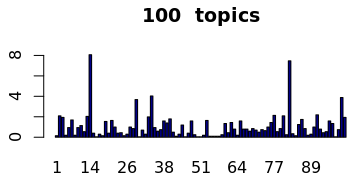
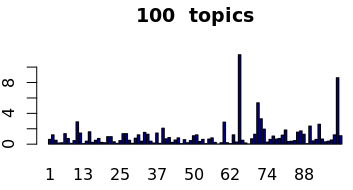
rerun topic modelling on the updated number of documents

diff --git a/notebooks/LDA_topics.md b/notebooks/LDA_topics.md
@@ -53,10 +53,10 @@ Sum  |  56.1% |   |   |   |   |   |   |   |   |   |
 
 Topic| Percent of docs| Keyword1 |Keyword2 | Keyword3 | Keyword4 | Keyword5 | Keyword6 | Keyword7 | Keyword8 | Keyword9 | Keyword10
 --- | --- | --- | --- | --- | --- | --- | --- | --- | --- | --- | ---
-14  | 8%  | "internet" | "service"  | "speed"  |  "access" |  "bell"  |  "home"   |  "rural"  |  "month"  |  "line"   |  "cellular"
- 82  | 7.4%  | "crtc"    |     "telecom"   |   "regulatory"  |  "commission"  | "notice"    |   "consultation"  | ”canadian"   |  "review"   |    "basic"     |   "services"
-34  | 4%  |  "internet"  |  "data"   |   "service"  |  "price" |    "prices"  |  "month"   |  "speeds"  |   "caps"    |  "canada"  |  "companies"
-99  | 3.8%  |  "bell"   |     "canada"  |    "local"   |    "northwestel" | “bands"   |    "rate"    |   "residential"  | "subsidy"  |   "partnership"  | "télébec"
-29  |  3.6% |  "customers" |  "service"   |  "plan"    |    "call"    |    "wireless"  |   "mobile"   |   "voice"   |    "services"  |  "internet"  |  "information"  
-91  | 2.2%  |   "internet" | "mbps"  |    "unlimited" |  "dsl"  |     "gb"    |    "data"  |    "monthly" |  "speed"    | "business"  |  "cable"
-Sum  | 29%  |   |   |   |   |   |   |   |   |   |  
+65  | 11.6%  | "internet" | "service"  | "access"  |  "rural" |  "cell"  |  "phone"   |  "speed"  |  "live"  |  "services"   |  "provide"
+99  | 8.6%  |"internet" | "service"  |  "speed"  |  "data"  |   "pm"   |    "month"  |   "rural"  |   "slow"   |   "bell"       |   "pay"
+71  | 5.4%  |  "crtc"    |     "commission" |  "telecom"   |   "regulatory"  | "consultation" "notice"   |    "canadian"  |   "information"   |  "review"    |   "basic"  
+72  | 3.3%  |  "information" | "response"  |   "commission"  |  "crtc"   |      "disclosure"  |  "confidential" | "public"  |     "request"  |   "provided"  |   "rogers"
+11  |  2.9% |  "digital"  |    "canadians"  |   "canadian"  |    "canada"  |     "access"   |    "services"  |   "basic"   |     "hearing"    |  "consultation" |  "economy"
+60  | 2.9%  |   "customers" |  "service"  |   "call"  |      "wireless"  |  "plan"  |      "voice"   |    "information" "services"  |  "mobile"  |  "internet"
+Sum  | 34.7%  |   |   |   |   |   |   |   |   |   |  
